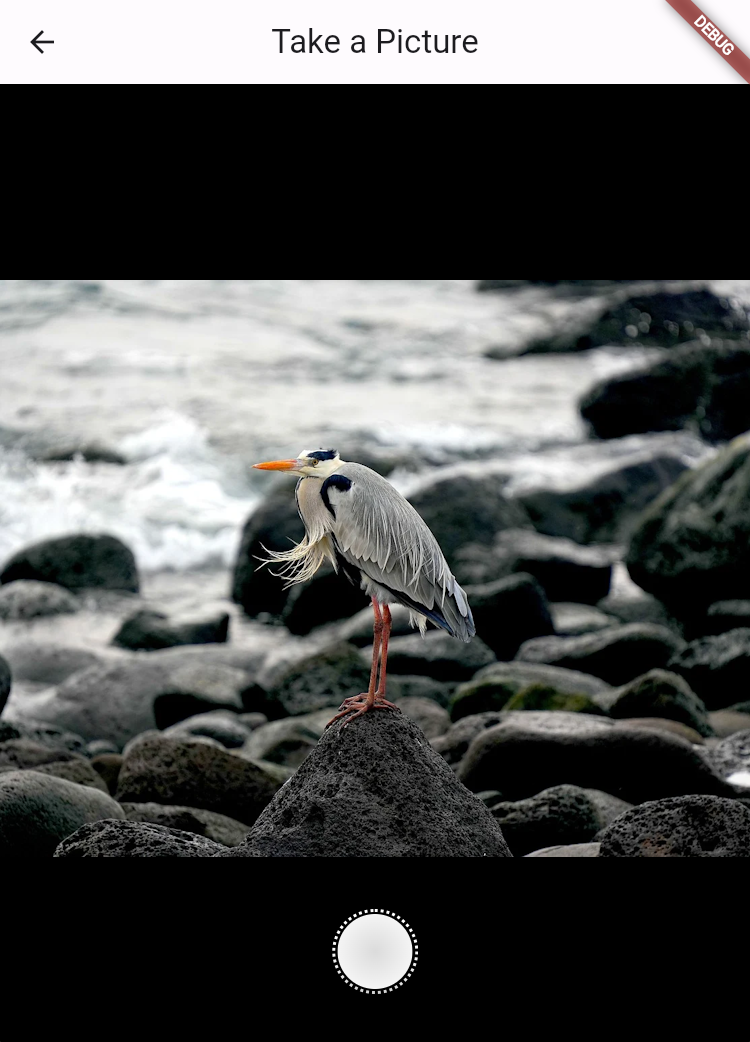
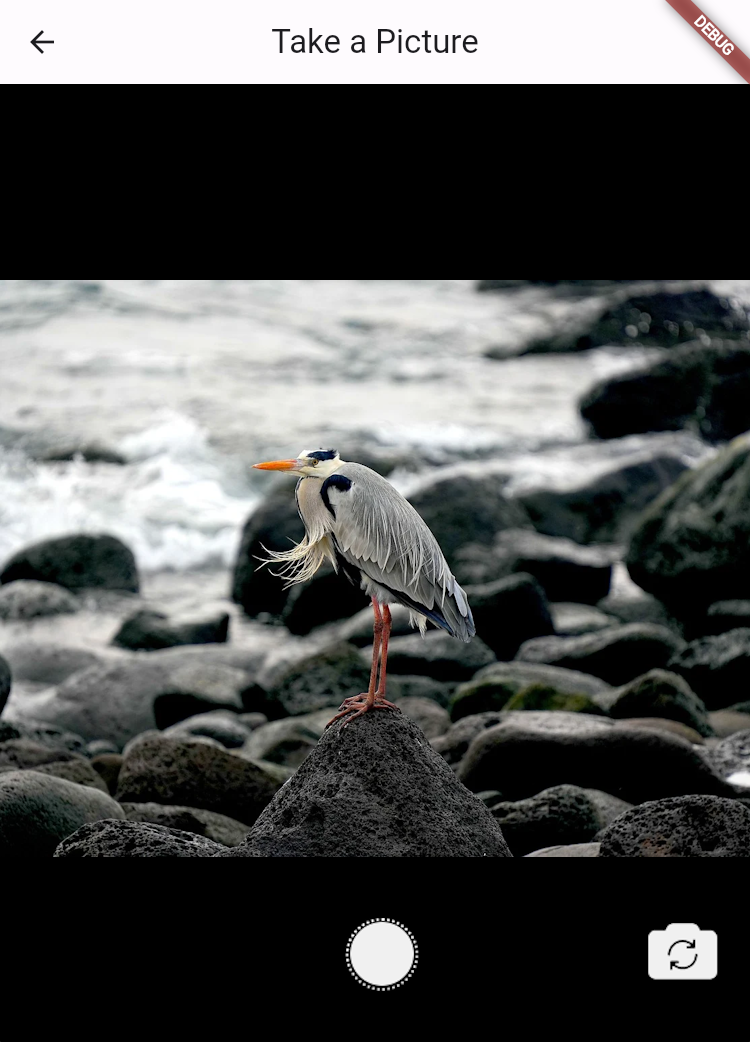
Added camera switching capability allowing users to switch between multiple   cameras.

Changed region(s): [[0.4293, 0.8599, 0.552, 0.952], [0.8587, 0.8599, 0.9813, 0.952]]

diff --git a/lib/assets/camera.html b/lib/assets/camera.html
@@ -43,12 +43,13 @@
             border-radius: 50%;
             width: 50px;
             height: 50px;
-            background-image: radial-gradient(circle at center, #dbdbdb, #ffffff);
+            /* background-image: radial-gradient(circle at center, #dbdbdb, #ffffff); */
             z-index: 1000;
 
             border: none;
             cursor: pointer;
             box-shadow: 0 8px 10px #00000033;
+            color: #ffffff;
         }
 
         #capture-border {
@@ -61,7 +62,6 @@
             height: 53px;
             background-color: transparent;
             border: 2px dotted #ffffff;
-            box-shadow: 0 4px 8px rgba(0, 0, 0, 0.2);
         }
 
         #cancel-button {
@@ -76,6 +76,15 @@
             -webkit-transform: rotate(135deg);
             cursor: pointer;
         }
+
+        #switch-camera-button {
+            position: absolute;
+            bottom: 25px;
+            right: 45px;
+            border: none;
+            cursor: pointer;
+
+        }
     </style>
 </head>
 
@@ -84,8 +93,8 @@
         <video autoplay playsinline></video>
         <div id="capture-border"></div>
         <button id="capture-button"></button>
+        <img id="switch-camera-button" width="64px" height="64px" src="cam.webp" alt="Switch Camera" />
 
-        <!-- <div id="cancel-button"></div> -->
     </div>
     <canvas style="display: none;"></canvas>
 
@@ -94,49 +103,71 @@
         var canvas = document.querySelector("canvas");
         var context = canvas.getContext("2d");
         var captureButton = document.getElementById("capture-button");
-        var cancelButton = document.getElementById("cancel-button");;
-
-        var errorCallback = function (e) {
-            console.log("Rejected!", e);
-        };
+        var switchCameraButton = document.getElementById("switch-camera-button");
+        var currentCameraIndex = 0;
+        var cameraDevices = [];
 
         captureButton.addEventListener("click", function () {
             canvas.width = video.videoWidth;
             canvas.height = video.videoHeight;
             context.drawImage(video, 0, 0, canvas.width, canvas.height);
-
-
-            // Convert canvas to data URL
             var imageDataUrl = canvas.toDataURL("image/png");
-
-            // Send this data URL back to Flutter
             window.parent.postMessage(imageDataUrl, "*");
         });
 
-        // cancelButton.addEventListener("click", function () {
-        //     window.parent.postMessage("", "*");
-        // });
+        function switchCamera() {
+            if (cameraDevices.length > 0) {
+                currentCameraIndex = (currentCameraIndex + 1) % cameraDevices.length;
+                var selectedDeviceId = cameraDevices[currentCameraIndex].deviceId;
+                setCamera(selectedDeviceId);
+            }
+        }
 
-        // Check if the navigator.mediaDevices.getUserMedia is supported
-        if (navigator.mediaDevices && navigator.mediaDevices.getUserMedia) {
-            // Request only the video to focus on the visual content
-            navigator.mediaDevices.getUserMedia({ video: true, audio: false }) // Considered focus on video
+        switchCameraButton.addEventListener("click", switchCamera);
+
+        function setCamera(deviceId) {
+            var constraints = {
+                video: { deviceId: { exact: deviceId } },
+                audio: false
+            };
+            navigator.mediaDevices.getUserMedia(constraints)
                 .then(function (stream) {
-                    var video = document.querySelector("video");
-                    // Use the stream directly with the video element
                     video.srcObject = stream;
+                }).catch(function (error) {
+                    console.log("Error switching cameras: ", error);
+                });
+        }
 
-                    video.onloadedmetadata = function (e) {
-                        // Video is ready to play
-                    };
-                },)
-                .catch(errorCallback);
+        function listCameras() {
+            navigator.mediaDevices.enumerateDevices()
+                .then(function (devices) {
+                    cameraDevices = devices.filter(function (device) {
+                        return device.kind === 'videoinput';
+                    });
+
+                    // Hide the switch camera button if one or no cameras are found
+                    if (cameraDevices.length <= 1) {
+                        // switchCameraButton.style.display = 'none';
+                        switchCameraButton.style.display = 'inline-block';
+                    } else {
+                        // Ensure it's visible if there are multiple cameras (useful if devices change)
+                        switchCameraButton.style.display = 'inline-block';
+                    }
+
+                    if (cameraDevices.length > 0) {
+                        setCamera(cameraDevices[currentCameraIndex].deviceId);
+                    }
+                }).catch(function (error) {
+                    console.log("Error listing cameras: ", error);
+                });
+        }
+
+        if (navigator.mediaDevices && navigator.mediaDevices.getUserMedia) {
+            listCameras();
         } else {
             console.log("getUserMedia not supported on your browser!");
         }
     </script>
-
 </body>
-
 
 </html>

diff --git a/README.md b/README.md
@@ -13,6 +13,9 @@ web applications and returns the captured photo as a base64 encoded string.
 - Returns a base64 encoded string of the captured image, ready to be used within
   your application.
 - Customizable AppBar title and the option to center the title.
+- Camera switching capability allows users to switch between multiple cameras.
+  The switch camera button is intelligently shown only when more than one camera
+  is available, enhancing the user interface and experience.
 
 ## Getting Started
 

diff --git a/CHANGELOG.md b/CHANGELOG.md
@@ -1,3 +1,8 @@
+## 1.0.5
+
+- Added camera switching capability allowing users to switch between multiple
+  cameras.
+
 ## 1.0.4
 
 - Fixed html asset path.
